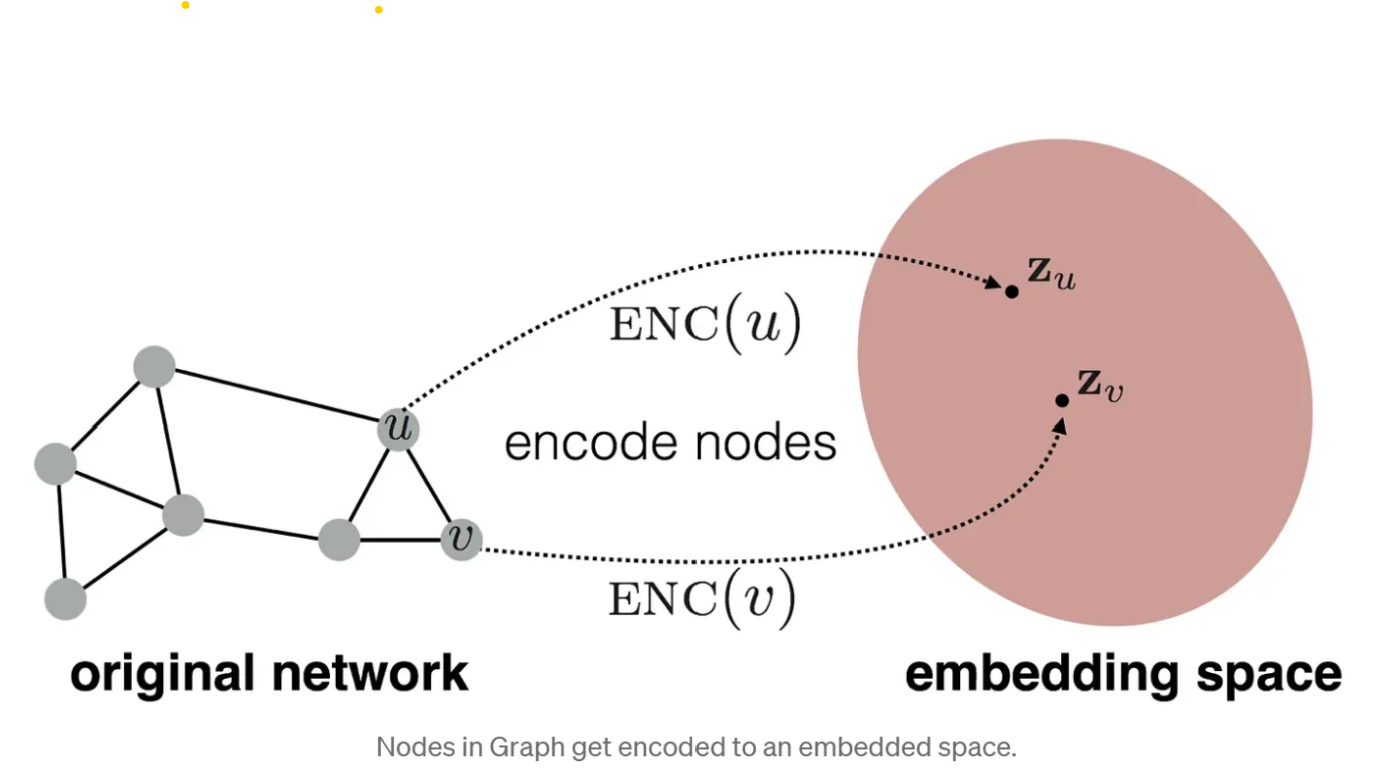
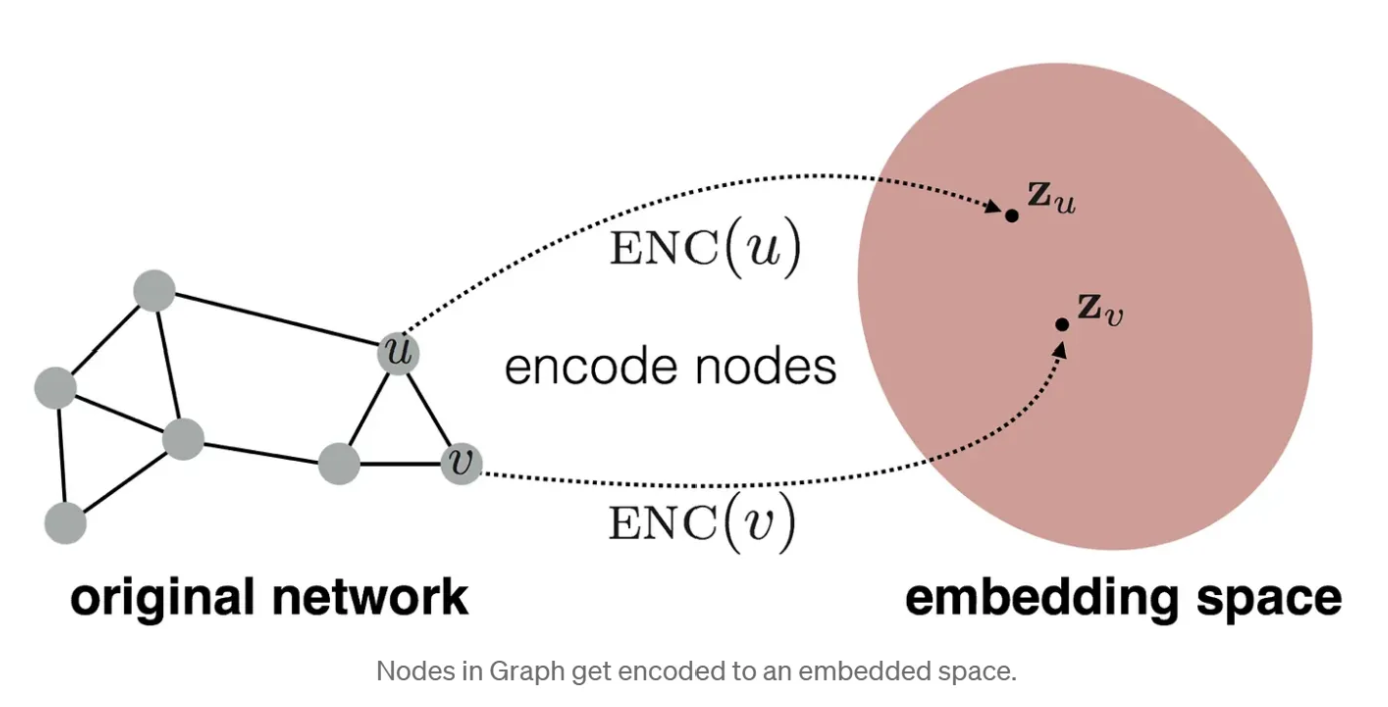
update

diff --git a/portfolio/src/app/components/timeline.tsx b/portfolio/src/app/components/timeline.tsx
@@ -31,6 +31,13 @@ const Timeline: React.FC = () => {
   // Example data for timeline items
   const timelineItems: TimelineItemProps[] = [
     {
+      title: "Master's in Computer Science",
+      subtitle: "Syracuse University",
+      date: "Aug 2024 - Currently Pursuing",
+      content: "",
+      isRight: false
+    },
+    {
       title: "Product Engineer - AI Developer",
       subtitle: "TCS - Advance Drug Development (ADD) platform",
       date: "Jan 2023 - July 2024",
